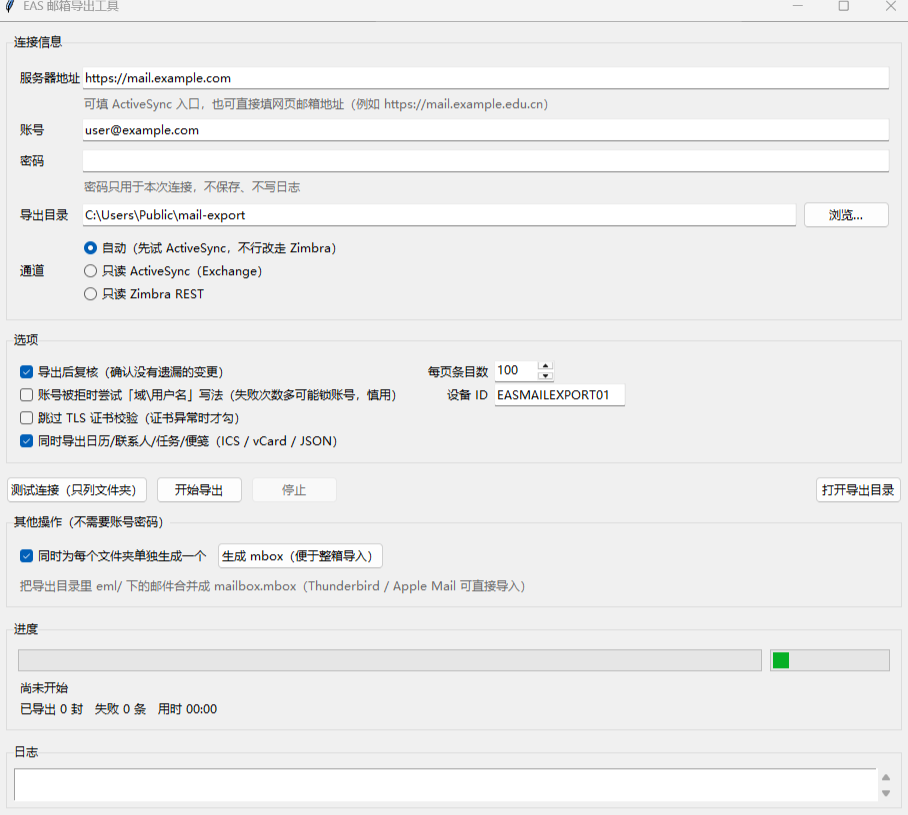
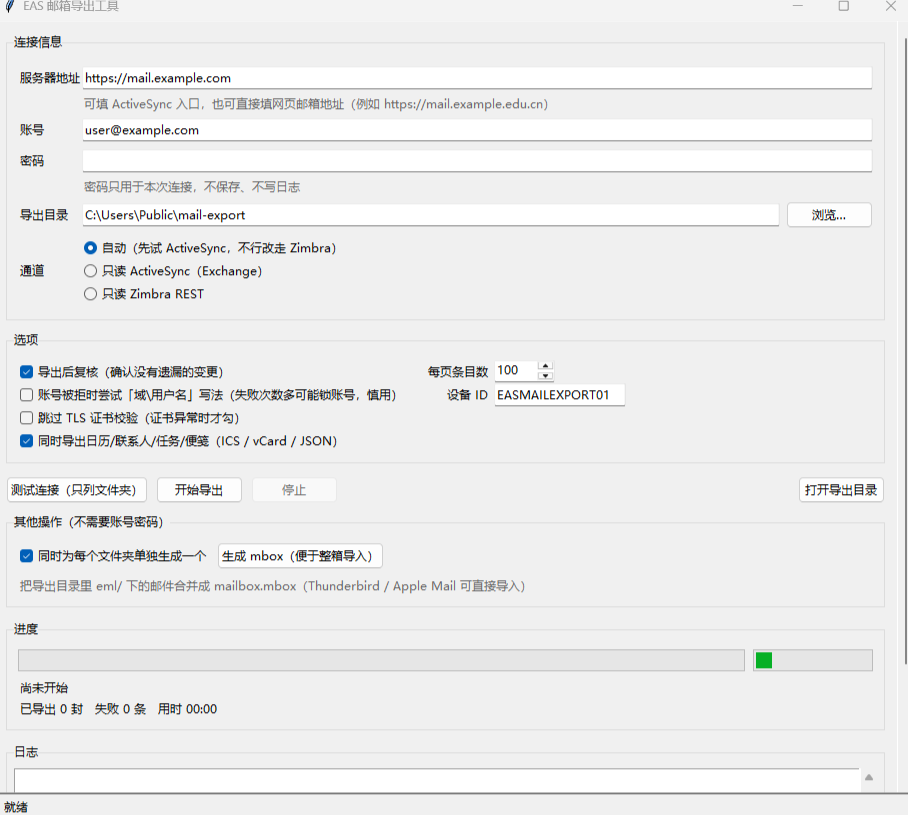
改进：整个界面支持垂直滚动（小屏幕可用），并修好被挤掉的状态栏

diff --git a/tests/test_gui.py b/tests/test_gui.py
@@ -159,6 +159,46 @@ def test_mbox_button_builds_file() -> bool:
         shutil.rmtree(tmp, ignore_errors=True)
 
 
+def test_window_scrolls_and_status_bar_stays() -> bool:
+    """内容区可垂直滚动，状态栏固定在底部（不被挤掉）。"""
+    if not has_gui():
+        print("（没有可用的图形环境，跳过）")
+        return False
+    module = _load_app_module()
+    if module is None:
+        print("（无法加载 app_gui.pyw，跳过）")
+        return False
+
+    app = None
+    try:
+        app = module.ExportApp()
+        app.withdraw()
+        # 把窗口缩到很小，模拟小屏幕
+        app.geometry("780x500")
+        app.update_idletasks()
+        app.update()
+
+        canvas = app.canvas
+        region = canvas.bbox("all")
+        assert region and region[3] > 0, f"画布没有滚动区域：{region}"
+        before = canvas.yview()
+        canvas.yview_moveto(1.0)
+        app.update()
+        after = canvas.yview()
+        assert after != before, f"画布无法滚动：{before} -> {after}"
+        assert canvas.bbox("all")[3] > 500, "内容高度应超过窗口高度才需要滚动"
+
+        # 状态栏固定在底部且没有被 expand 的区域挤掉
+        assert app.status_bar.pack_info().get("side") == "bottom"
+        assert app.status_bar.winfo_reqheight() > 1
+        assert app.status_bar.cget("textvariable") == str(app.var_status)
+        return True
+    finally:
+        if app is not None:
+            app.destroy()
+        logging.getLogger().handlers = [logging.NullHandler()]
+
+
 if __name__ == "__main__":
     ran = test_probe_shows_feedback()
     if ran:
@@ -166,3 +206,6 @@ if __name__ == "__main__":
     ran = test_mbox_button_builds_file()
     if ran:
         print("GUI 生成 mbox        ✓")
+    ran = test_window_scrolls_and_status_bar_stays()
+    if ran:
+        print("窗口可滚动/状态栏     ✓")
